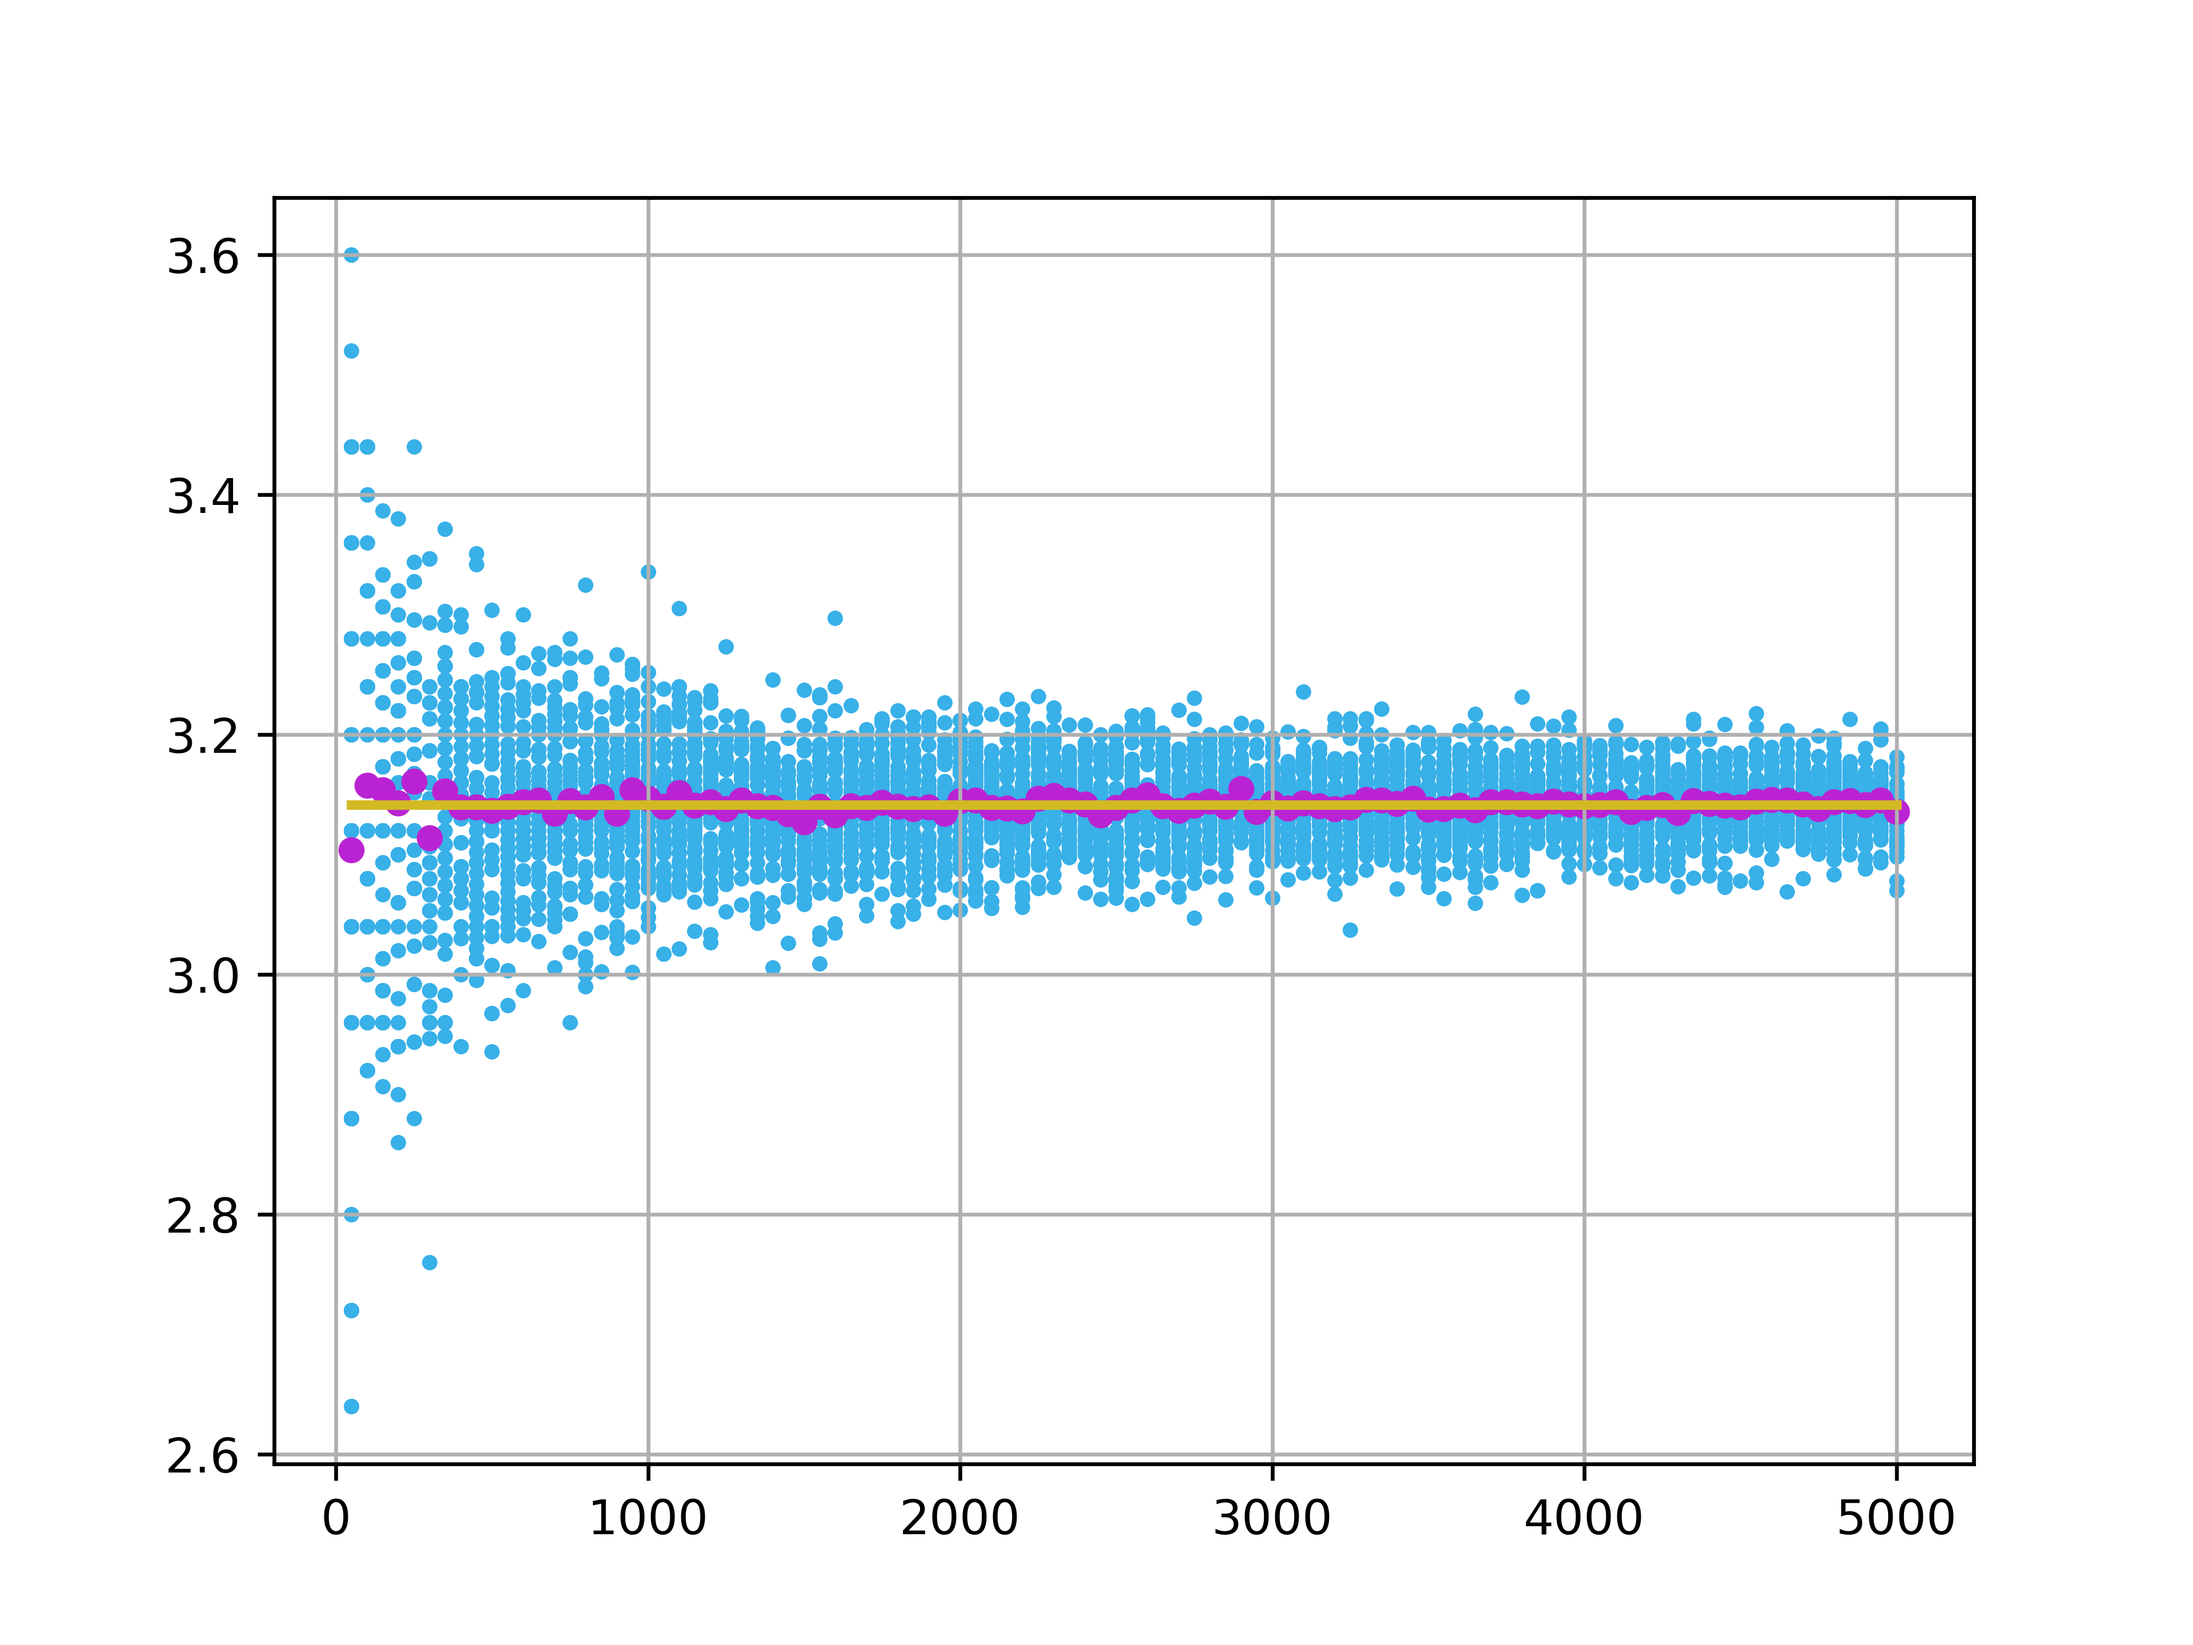
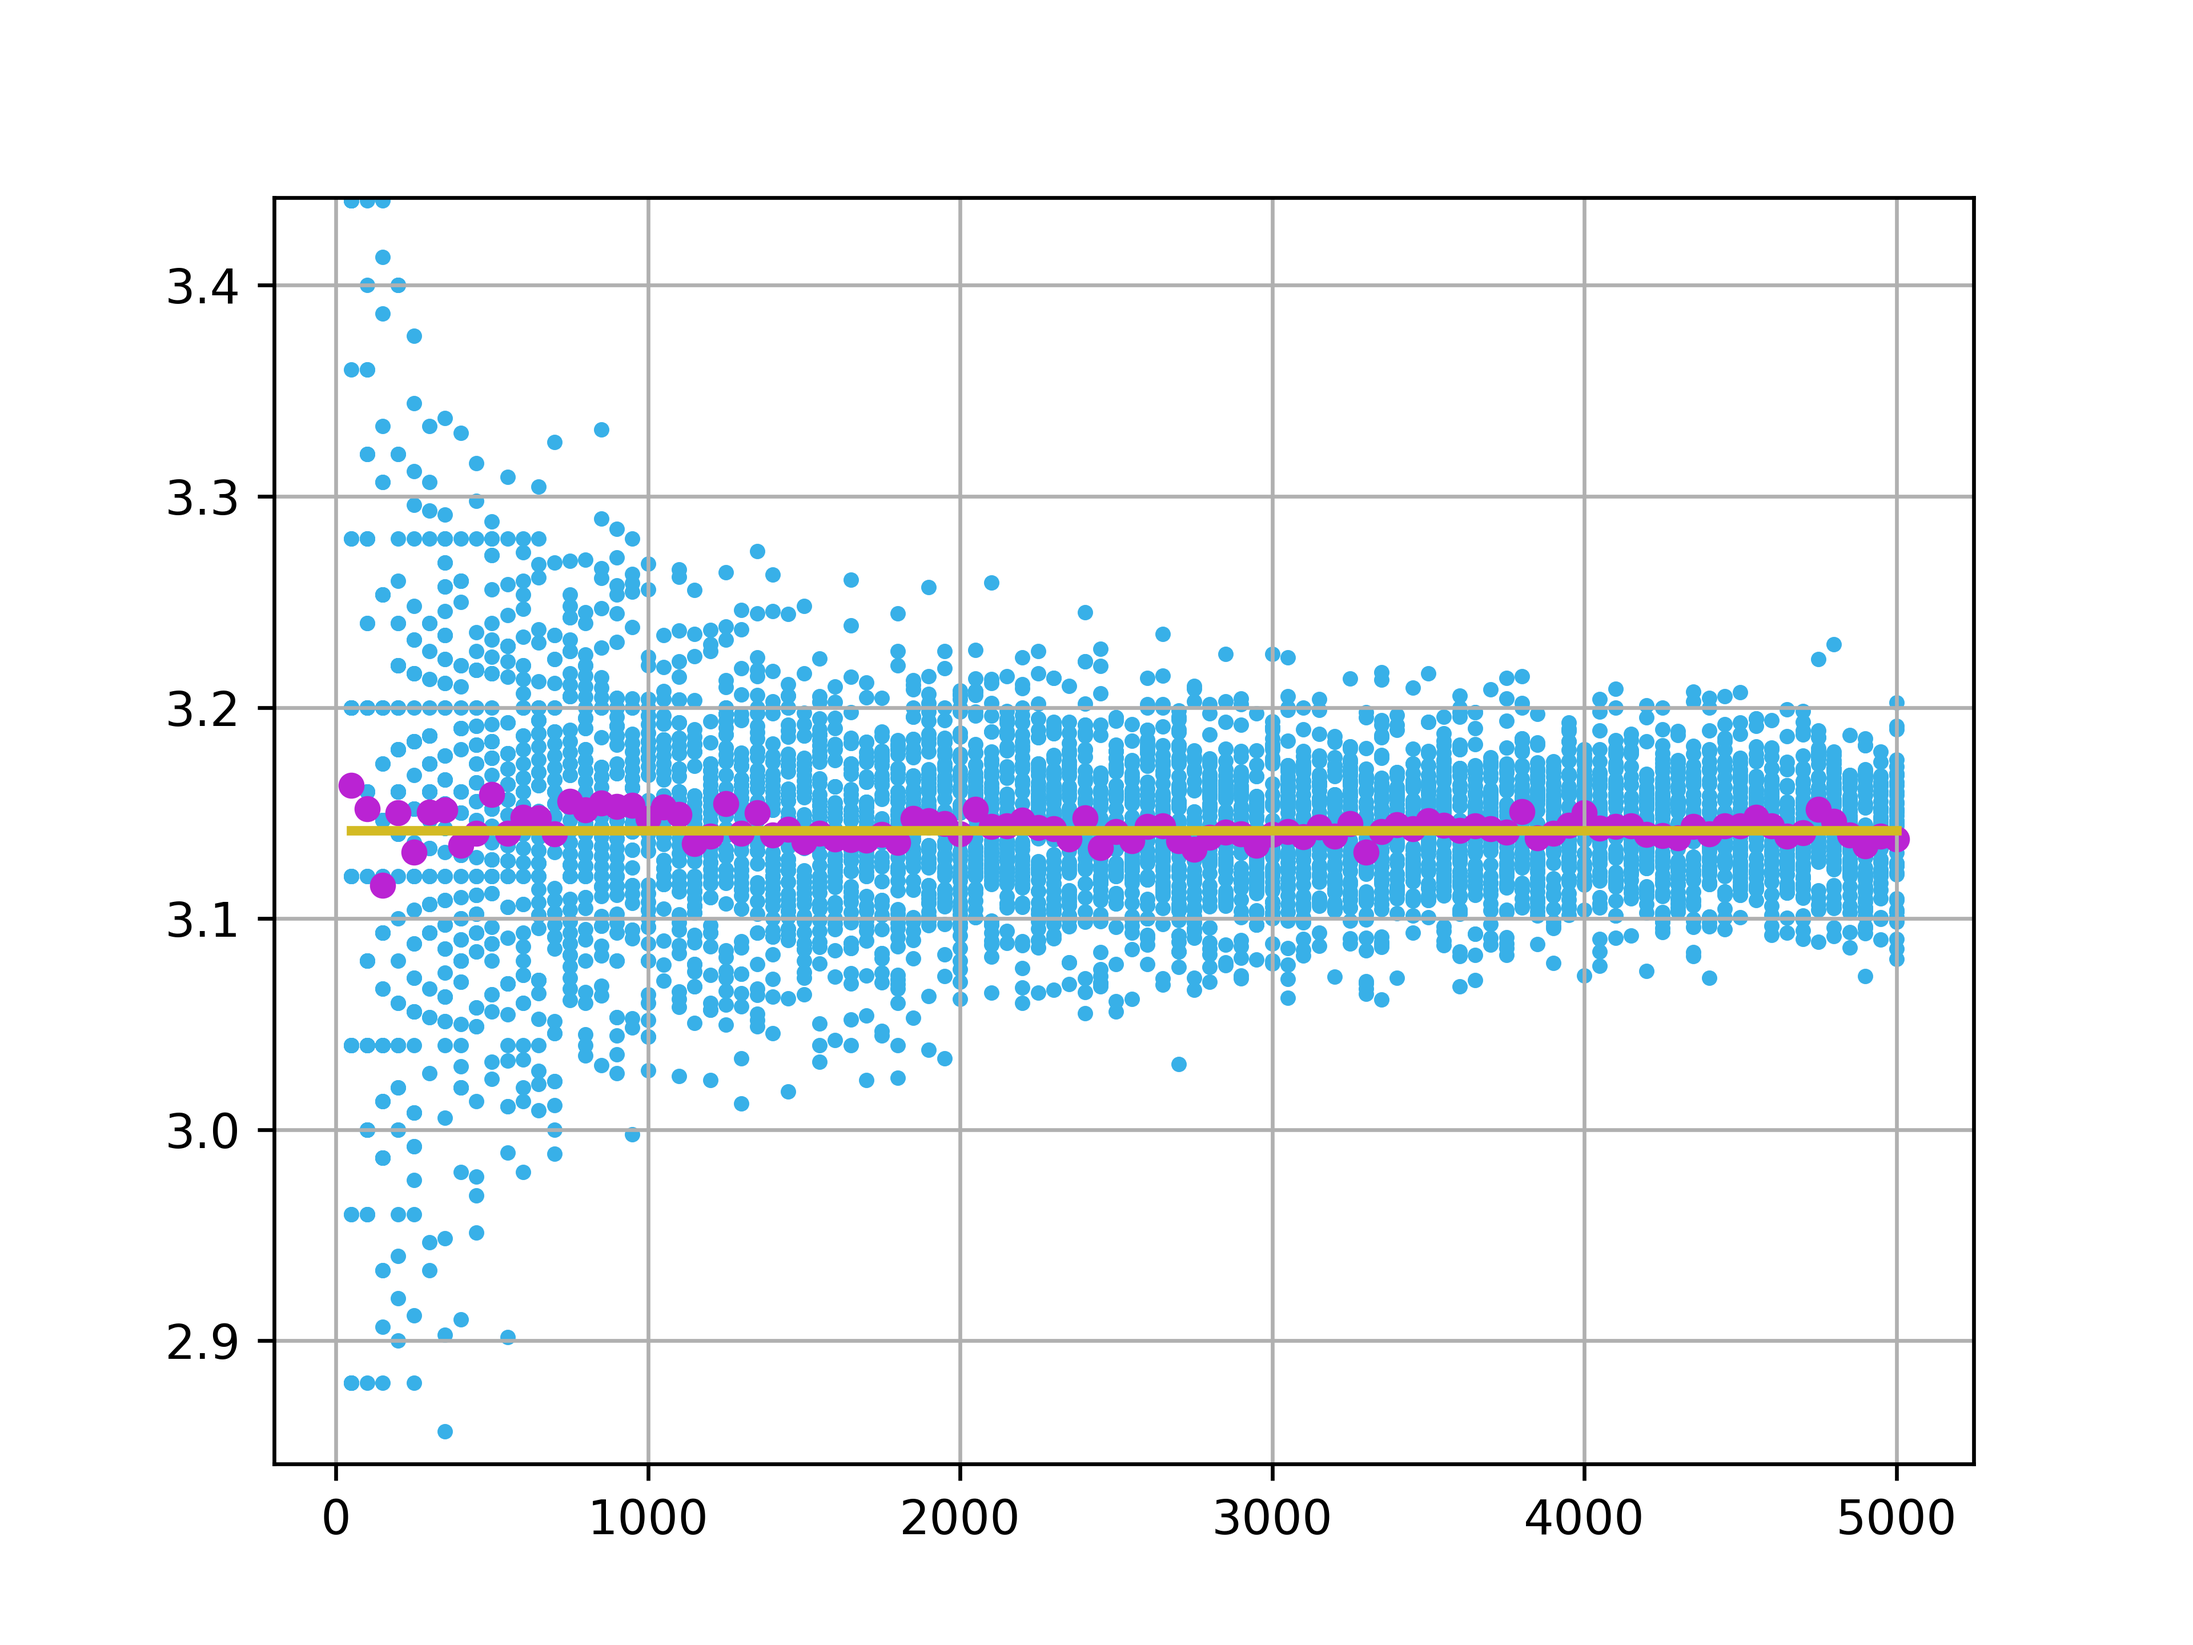
removed transform, added minimum y bound and ylim arg for plotting

diff --git a/rach-prob/l1/main.py b/rach-prob/l1/main.py
@@ -32,6 +32,7 @@ class MonteCarloIntegral:
     N_MAX = 5000
     N_STEP = 50
 
+    m: float
     sup: float
     a: float
     b: float
@@ -40,24 +41,46 @@ class MonteCarloIntegral:
     is_negative: bool
     checkFn: FnCheckType
 
-    def __init__(self, fn: VectorizedFn, a: float, b: float, sup: float | None = None, checkFn: FnCheckType | None = None):
-        self.fn = fn
-        self.fn = fn
+    def __init__(self, fn: VectorizedFn | None, a: float, b: float, m: float = 0.0, sup: float | None = None, checkFn: FnCheckType | None = None):
+        """
+
+        Args:
+            fn (VectorizedFn | None): the main function to integrate, 
+                if specified must be vectorized (accepts both arrays and single values as inputs)
+            a (float): Begining of integration section
+            b (float): End of integration section (must always meet a < b)
+            m (float, optional): The bottom value of the y axis to probe from, defaults to 0
+            sup (float | None, optional): Max/min (min if the function is negative) 
+                value of the function in the [a,b]. Defaults to None.
+            checkFn (FnCheckType | None, optional): Function to check if given point (or points) is under the curve, 
+                fn must NOT be specified. Defaults to None.
+
+        Raises:
+            ValueError: If fn != None and checkFn != None, or both not specified, or the `fn` has
+                alternating values at [a,b].
+        """
+
         self.a = a
         self.b = b
+        self.m = m
+
+        if fn and checkFn:
+            raise ValueError(
+                'Either pass function or checking function, not both.')
 
         # Calculate maximum/minimum value on [a, b] for the provided function
-        if sup == None:
+        if sup == None and fn != None:
             def calc_deriv(x: VectorVType) -> VectorVType:
                 D_EPSILON = 0.0001
-                y = self.fn(x)
-                dy = self.fn(x + D_EPSILON)
+                y = fn(x)
+                dy = fn(x + D_EPSILON)
                 return (dy - y) / D_EPSILON
 
             # Choose the most promising starting point
             # and then use gradient ascent or descent to find the max/min value
             xs = np.linspace(a, b, 20)
             ys = fn(xs)
+            
             self.is_negative = bool(np.all(ys <= 0))
             if np.any(ys < 0) and np.any(ys > 0):
                 raise ValueError(
@@ -65,7 +88,7 @@ class MonteCarloIntegral:
 
             x = 0.0
 
-            # Use gradient ascent to find maximum
+            # Use gradient ascent/descend to find maximum/minimum
             d = 0.0
             EPSILON = 0.01
             ALPHA = 0.15
@@ -91,8 +114,15 @@ class MonteCarloIntegral:
 
             # Evaluate function at the found maximum/minimum point
             sup = float(fn(x))
+            
+        elif sup == None:
+            raise ValueError('Sup must be specified if "fn" is None.')
 
         if checkFn == None:
+            if fn == None:
+                raise ValueError(
+                    'Expected specified check function (main function is not specified)')
+
             # Check if the point(s) is under the curve
             def defaultCheck(f: VectorizedFn, v: FnCheckVArg) -> Union[bool, BoolArray]:
                 xs, ys = v
@@ -104,6 +134,7 @@ class MonteCarloIntegral:
 
             checkFn = defaultCheck
 
+        self.fn = fn if fn != None else lambda x: x
         self.sup = sup
         self.checkFn = checkFn
         self.gen = Generator(MT19937())
@@ -133,37 +164,36 @@ class MonteCarloIntegral:
                 self.checkFn(
                     self.fn, (
                         gen.random((n,)) * (self.b - self.a) + self.a,
-                        gen.random((n,)) * self.sup
+                        gen.random((n,)) * self.sup + self.m
                     )))
-            results[i] = (c/n*(self.b-self.a)*self.sup)
+            results[i] = (c/n*(self.b-self.a)*(self.sup-self.m))
         return results
 
 
 def run_experiment(
-        mci: MonteCarloIntegral, k: int, expected: float, 
-        title: str | None = None, filename: str | None = None, 
-        transform: None | TransformType = None, showplt: bool = True):
+        mci: MonteCarloIntegral, k: int, expected: float,
+        title: str | None = None, filename: str | None = None,
+        ylim: typ.Tuple[float, float] | None = None,
+        showplt: bool = True):
     result = mci.go(k)
     y, x = mci.as_plt(k, result)
 
     meany = np.mean(np.array([arr for arr in result.values()]), axis=1)
     meanx = mci.n_range()
-
-    if transform != None:
-        meany = transform(meany)
-        y = transform(y)
-
     fig, ax = plt.subplots()
 
     ax.scatter(x, y, s=5, color="#38B0E8")
     ax.scatter(meanx, meany, s=20, color="#BA23D3")
     ax.plot([meanx[0], meanx[len(meanx)-1]],
-             [expected, expected], color="#D3BA23", linewidth=2)
+            [expected, expected], color="#D3BA23", linewidth=2)
 
     if title:
         fig.suptitle(f'{title} k={k}')
     ax.xaxis.set_label('N')
     ax.yaxis.set_label('Approx Value')
+
+    if ylim:
+        ax.set_ylim(ylim)
     ax.grid(True)
 
     if filename != None:
@@ -186,56 +216,45 @@ def get_args() -> arg.Namespace:
         '-f', '--func', default=FUNCS[0], choices=FUNCS, type=str, help='Function to integrate')
     p.add_argument('-s', '--filename', default=None, type=str,
                    help='Filename for the saved graph')
-    p.add_argument('-t', '--title', default='Monte Carlo Integration', type=str, help='Set the title of the plot')
-    
-    p.add_argument('-r', '--run_all', action='store_true', default=False, 
-                    help='Run all experiments metioned in the exercise (poly, sin, cbrt, pi) with k=[5, 50]')
+    p.add_argument('-t', '--title', default='Monte Carlo Integration',
+                   type=str, help='Set the title of the plot')
+
+    p.add_argument('-r', '--run_all', action='store_true', default=False,
+                   help='Run all experiments metioned in the exercise (poly, sin, cbrt, pi) with k=[5, 50]')
     return p.parse_args()
 
 
 def main():
     args = get_args()
 
-    # Create vectorized versions of the integration functions
-    def vectorized_poly(x: VectorVType) -> VectorVType:
-        return 4*x*(x-1)**3
-
-    # No actual function for the half of circle, because
-    # I'm using the `is_in_cricle` custom hook
-    # for checking if the point is inside the circle
-
-    def dummy_circle(x: VectorVType) -> VectorVType:
-        return 0.0
-
     # Simply check if given 2 points are inside the unit circle
-    def is_in_circle(f: VectorizedFn, v: FnCheckVArg) -> Union[bool, BoolArray]:
-        x, y = v
-        return (x ** 2 + y**2) <= 1
-
-    def transform_circle(p: FloatArray) -> FloatArray:
-        return p * 2
+    is_in_circle: FnCheckType = lambda f, v: (v[0]**2 + v[1]**2) <= 1
 
     # MonteCarloIntegral: function, a, b, [checkFn]
     integrals = (
-        (MonteCarloIntegral(lambda x: x**3, 1, 3), 20.0, None, 'x^3'),
-        (MonteCarloIntegral(lambda x: np.cbrt(x), 0, 8), 12.0, None, 'Cbrt'),
-        (MonteCarloIntegral(lambda x: np.sin(x), 0, np.pi), 2.0, None, 'Sin'),
-        (MonteCarloIntegral(vectorized_poly, 0, 1), -0.2, None, 'Poly'),
-        (MonteCarloIntegral(dummy_circle, -1, 1, 1, is_in_circle), np.pi, transform_circle, 'Pi')
+        (MonteCarloIntegral(lambda x: x**3, 1, 3), 20.0, 'x^3', (20.0 - 2, 20.0 + 2)),
+        (MonteCarloIntegral(lambda x: np.cbrt(x), 0, 8), 12.0, 'Cbrt', (12.0 - 2, 12.0 + 2)),
+        (MonteCarloIntegral(lambda x: np.sin(x), 0, np.pi), 2.0, 'Sin', (2.0 - 0.3, 2.0 + 0.3)),
+        (MonteCarloIntegral(lambda x: 4*x*(x-1)**3, 0, 1), -0.2, 'Poly', (-0.20 - 0.04, -0.20 + 0.04)),
+        (MonteCarloIntegral(None, -1, 1, m=-1, sup=1, checkFn=is_in_circle),
+         np.pi, 'Pi', (np.pi - 0.3, np.pi + 0.3))
     )
 
     print(args._get_kwargs())
 
     if not args.run_all:
-        mci, expected, transform, _ = integrals[FUNCS.index(args.func)]
-        run_experiment(mci, args.k, expected, args.title, args.filename, transform)
+        mci, expected, _, ylim = integrals[FUNCS.index(args.func)]
+        run_experiment(mci, args.k, expected, args.title,
+                       args.filename, ylim=ylim)
     else:
         KS = [5, 50]
         print('Running all experiments with k={}'.format(KS))
 
         for k in KS:
-            for mci, expected, transform, title in integrals:
-                run_experiment(mci, k, expected, None, f'{title}-{k}.png', transform, showplt=False)
+            for mci, expected, title, ylim in integrals:
+                run_experiment(
+                    mci, k, expected, None, f'{title}-{k}.png', ylim=ylim, showplt=False)
+
 
 if __name__ == '__main__':
     main()
